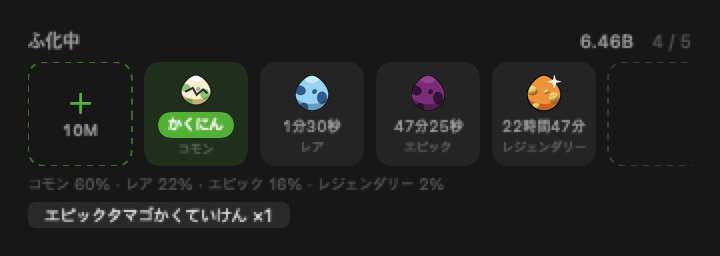
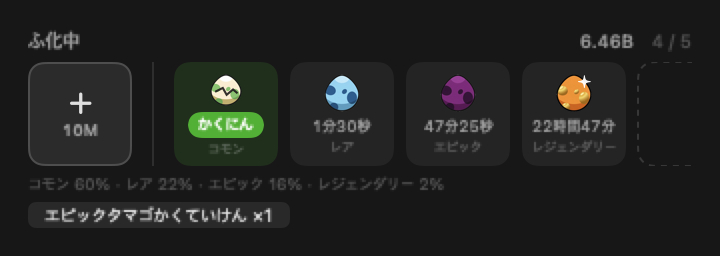
refactor: move the draw tile out of the scrolling egg strip
Pinning the draw tile to the head of the row kept it from shifting, but it
still lived inside the horizontal ScrollView. That cost a slot's worth of
width: the strip now overflows the 332pt content width at 5 slots instead
of 6, and scrolling right to see the last egg carries the button off screen
- so the position fix stopped working exactly when the row got long enough
to need scrolling.

Make the tile a sibling of the ScrollView instead. It cannot move and
cannot scroll away, and RowTile loses its .draw case so putting the button
back in the strip is a compile error rather than a test failure.

Three tile kinds shared two treatments: the dashed outline meant both
'empty slot' and 'draw button'. Give the dashes back to empty slots and
make the button a filled card, separated from the strip by a divider.
It deliberately drops the accent colour - green now appears once in the
row, on the Open badge for an egg that can actually be collected - and
distinguishes enabled from blocked by brightness instead.

When every slot is full the odds line is replaced by the reason the button
is grey, which nothing said before.

diff --git a/Sources/PokeDexBar/UI/EggSlotsView.swift b/Sources/PokeDexBar/UI/EggSlotsView.swift
@@ -69,25 +69,37 @@ struct EggSlotsView: View {
                 Text("\(store.state.eggs.count) / \(store.state.slots)")
                     .font(.system(size: 9)).monospacedDigit().foregroundStyle(.tertiary)
             }
-            ScrollView(.horizontal, showsIndicators: false) {
-                HStack(spacing: Self.tileSpacing) {
-                    ForEach(Self.tiles(eggs: store.state.eggs, slots: store.state.slots,
-                                       canDrawHere: provider != nil)) { tile in
-                        switch tile {
-                        case .draw: drawSlot
-                        case .egg(let egg): slot(egg)
-                        case .empty: emptySlot
+            // **뽑기 칸은 스크롤 바깥이다.** 줄 안에 두면 두 가지를 잃는다: 알이 찰 때마다
+            // 자리가 밀려 연타가 깨지고(사용자 지적), 칸 하나가 늘어난 만큼 줄이 더 일찍 넘쳐
+            // 오른쪽 알을 보려고 스크롤하면 **버튼이 화면 밖으로 나간다**(5슬롯부터 그렇다).
+            // 스크롤의 형제로 두면 둘 다 사라진다 — 자리가 고정되고 늘 보인다.
+            HStack(alignment: .top, spacing: 10) {
+                if provider != nil {
+                    drawSlot
+                    // 왼쪽은 **동작**이고 오른쪽은 **상태**다 — 같은 크기 타일이 붙어 서면 한 덩어리로
+                    // 읽히므로 경계를 한 줄 긋는다.
+                    Divider().frame(height: Self.tileSize)
+                }
+                ScrollView(.horizontal, showsIndicators: false) {
+                    HStack(spacing: Self.tileSpacing) {
+                        ForEach(Self.tiles(eggs: store.state.eggs, slots: store.state.slots)) { tile in
+                            switch tile {
+                            case .egg(let egg): slot(egg)
+                            case .empty: emptySlot
+                            }
                         }
                     }
                 }
+                // 슬롯이 적으면(대부분의 사용자) 스크롤·바운스가 생기지 않아 기존과 동일하게 보인다.
+                .scrollBounceBehavior(.basedOnSize, axes: .horizontal)
             }
-            // 슬롯이 적으면(대부분의 사용자) 스크롤·바운스가 생기지 않아 기존과 동일하게 보인다.
-            .scrollBounceBehavior(.basedOnSize, axes: .horizontal)
             // **툴팁이 아니라 인라인 한 줄이다.** 팝오버 안에서는 `.help` 가 안 뜬다(실사용 확인) —
             // 이 앱의 다른 `.help` 들도 마찬가지라, 안 보이는 곳에 설명을 두면 없는 것과 같다.
             //
             // 확률은 값 바로 아래에 — 10M 이 무엇을 사는 값인지 말해 준다.
-            Text(Self.oddsText(store.language))
+            // 자리가 없으면 확률이 아니라 **왜 못 뽑는지**가 이 자리에 와야 한다 — 회색 버튼만
+            // 두면 물어볼 곳이 없다. 자리가 있으면 확률이 값(10M)이 무엇을 사는지 말해 준다.
+            Text(Self.footnote(freeSlots: store.freeSlots, language: store.language))
                 .font(.system(size: 8)).foregroundStyle(.tertiary)
             if let drawError {
                 Text(drawError).font(.system(size: 9)).foregroundStyle(.orange)
@@ -189,50 +201,59 @@ struct EggSlotsView: View {
 
     /// **빈 칸이 곧 뽑기 버튼이다.** 옆에 버튼을 따로 두면 빈 칸이 장식이 되고 누를 곳이
     /// 둘로 갈린다(키우미집 빈 자리에서 쓴 것과 같은 판단).
-    /// 한 줄에 놓이는 칸들. **뽑기 칸이 맨 앞에 못 박혀 있다** — 처음엔 "첫 빈 칸"이 뽑기
-    /// 칸이었는데, 알이 하나 찰 때마다 칸이 오른쪽으로 밀려 **연타가 깨졌다**(사용자 지적:
-    /// 예전엔 버튼을 따다닥 눌러 네 개를 연달아 뽑았는데 이제는 뽑을 때마다 마우스를 옮겨야
-    /// 한다). 자리가 고정돼야 같은 곳을 계속 누를 수 있다.
+    /// 스크롤되는 줄에 놓이는 칸들 — 알과 빈 칸뿐이다. **뽑기 칸은 여기 없다**: 줄 안에 두면
+    /// 알이 찰 때마다 자리가 밀려 연타가 깨지고, 줄이 한 칸 더 길어져 스크롤하면 버튼이 화면
+    /// 밖으로 나간다. 케이스를 아예 안 두는 이유는 그 회귀를 테스트가 아니라 **컴파일**이
+    /// 막게 하려는 것이다.
     ///
-    /// 자리가 꽉 차도 **빠지지 않고 회색으로 남는다** — 빠지면 왜 못 뽑는지 말해 줄 자리까지
-    /// 같이 사라지고, 다음에 부화하는 순간 줄이 통째로 밀린다.
-    ///
-    /// 순서를 뷰 본문에 두면 "알이 늘어도 뽑기 자리가 그대로인가"를 물어볼 수가 없어서 밖으로 뺐다.
+    /// 순서를 뷰 본문에 두면 "알이 늘어도 줄 길이가 그대로인가"를 물어볼 수가 없어서 밖으로 뺐다.
     enum RowTile: Identifiable {
-        case draw
         case egg(Egg)
         case empty(Int)
 
         var id: String {
             switch self {
-            case .draw: "draw"
             case .egg(let egg): "egg-\(egg.id)"
             case .empty(let index): "empty-\(index)"
             }
         }
     }
 
-    static func tiles(eggs: [Egg], slots: Int, canDrawHere: Bool) -> [RowTile] {
-        (canDrawHere ? [.draw] : []) + eggs.map { RowTile.egg($0) }
-            + (0..<max(0, slots - eggs.count)).map { RowTile.empty($0) }
+    static func tiles(eggs: [Egg], slots: Int) -> [RowTile] {
+        eggs.map { RowTile.egg($0) } + (0..<max(0, slots - eggs.count)).map { RowTile.empty($0) }
+    }
+
+    /// 줄 아래 한 줄. 자리가 없으면 확률이 아니라 **왜 못 뽑는지**가 온다 — 회색 버튼만 두면
+    /// 물어볼 곳이 없다. 지갑 부족은 헤더에 지갑과 값이 나란히 서서 이미 읽히므로 문장을 안 만든다.
+    nonisolated static func footnote(freeSlots: Int, language: AppLanguage) -> String {
+        freeSlots == 0 ? L(language).eggSlotsFull : oddsText(language)
     }
 
     private var drawSlot: some View {
         let canDraw = store.canDraw && !drawing && provider != nil
+        // **점선은 빈 칸 전용이다** — 버튼까지 점선이면 셋(버튼·빈칸·알)이 같은 무게로 읽힌다.
+        // 그리고 **악센트(초록)를 안 쓴다**: 이 줄에서 가장 중요한 신호는 "지금 열 수 있는 알"의
+        // 초록 배지인데, 바로 옆에 초록 버튼이 서면 시선이 갈린다. 버튼다움은 색이 아니라
+        // 채운 카드 + `plus` + 값이 맡는다.
         return Button { draw() } label: {
+            //
+            // 색을 뺀 만큼 **눌리는 상태와 막힌 상태는 밝기로** 갈린다 — 처음엔 둘을 같은 회색으로
+            // 뒀더니 지갑이 모자란 줄과 아닌 줄이 구별되지 않았다(스크린샷으로 발각).
             RoundedRectangle(cornerRadius: 8)
-                .stroke(Color.accentColor.opacity(canDraw ? 0.55 : 0.25),
-                        style: StrokeStyle(lineWidth: 1, dash: [3]))
+                .fill(Color.secondary.opacity(canDraw ? 0.16 : 0.06))
+                .strokeBorder(Color.secondary.opacity(canDraw ? 0.30 : 0.12), lineWidth: 1)
                 .frame(width: Self.tileSize, height: Self.tileSize)
                 .overlay {
                     VStack(spacing: 2) {
                         Image(systemName: drawing ? "hourglass" : "plus")
-                            .font(.system(size: 13, weight: .medium))
-                            .foregroundStyle(canDraw ? Color.accentColor : .secondary)
+                            .font(.system(size: 13, weight: .semibold))
+                            .foregroundStyle(canDraw ? AnyShapeStyle(.primary)
+                                                     : AnyShapeStyle(.tertiary))
                         // 값은 **회색일 때도 보인다** — 얼마가 모자란지 알아야 기다릴 수 있다.
                         Text(TokenFormatter.compact(EggBalance.drawPrice))
                             .font(.system(size: 8, weight: .semibold)).monospacedDigit()
-                            .foregroundStyle(.secondary)
+                            .foregroundStyle(canDraw ? AnyShapeStyle(.secondary)
+                                                     : AnyShapeStyle(.tertiary))
                     }
                 }
         }

diff --git a/Tests/PokeDexBarTests/ShopViewTests.swift b/Tests/PokeDexBarTests/ShopViewTests.swift
@@ -100,41 +100,44 @@ final class DrawLocationTests: XCTestCase {
         XCTAssertFalse(try code("EggSlotsView.swift").contains("buySlot("))
     }
 
-    /// **뽑기 칸은 알이 늘어도 제자리다.** 처음엔 "첫 빈 칸"이 뽑기 칸이라 알이 하나 찰 때마다
-    /// 칸이 오른쪽으로 밀렸고, 그래서 연타가 깨졌다(사용자 지적). 자리가 0번으로 고정돼야
-    /// 같은 곳을 계속 누를 수 있다.
-    func testTheDrawTileStaysPutAsEggsFillIn() {
+    /// **스크롤되는 줄에는 알과 빈 칸만 있다.** 뽑기 칸을 줄 안에 두면 알이 찰 때마다 자리가
+    /// 밀려 연타가 깨지고(사용자 지적), 줄이 한 칸 더 길어져 스크롤하면 버튼이 화면 밖으로
+    /// 나간다. `RowTile` 에 뽑기 케이스가 아예 없어서 이 회귀는 컴파일이 막지만, 줄 길이가
+    /// 슬롯 수를 따라가는 것은 여기서 잠근다.
+    func testTheStripIsExactlyTheSlotsNoMatterHowManyEggs() {
         let url = FileManager.default.temporaryDirectory
             .appendingPathComponent("row-\(UUID().uuidString).json")
         let now = Date(timeIntervalSince1970: 1_700_000_000)
         let store = PlayerStore(fileURL: url, rng: SeededRNG(seed: 3), now: { now })
         for filled in 0...4 {
             store.seedForTesting(wallet: EggBalance.drawPrice, slots: 4, eggs: filled, at: now)
-            let tiles = EggSlotsView.tiles(eggs: store.state.eggs, slots: 4, canDrawHere: true)
-            XCTAssertEqual(tiles.first?.id, "draw", "알 \(filled)개일 때 뽑기 칸이 맨 앞이 아니다")
-            XCTAssertEqual(tiles.count, 5, "알 \(filled)개일 때 줄 길이가 달라졌다")
+            let tiles = EggSlotsView.tiles(eggs: store.state.eggs, slots: 4)
+            XCTAssertEqual(tiles.count, 4, "알 \(filled)개일 때 줄 길이가 슬롯 수와 다르다")
+            XCTAssertEqual(tiles.prefix(filled).map(\.id),
+                           store.state.eggs.map { "egg-\($0.id)" },
+                           "알이 앞에서부터 순서대로 놓이지 않는다")
         }
     }
 
-    /// 자리가 꽉 차도 **빠지지 않는다** — 빠지면 왜 못 뽑는지 말해 줄 자리까지 사라지고,
-    /// 하나 부화하는 순간 줄이 통째로 밀린다.
-    func testTheDrawTileSurvivesAFullRow() {
-        let url = FileManager.default.temporaryDirectory
-            .appendingPathComponent("row-\(UUID().uuidString).json")
-        let now = Date(timeIntervalSince1970: 1_700_000_000)
-        let store = PlayerStore(fileURL: url, rng: SeededRNG(seed: 3), now: { now })
-        store.seedForTesting(wallet: EggBalance.drawPrice, slots: 3, eggs: 3, at: now)
-        let tiles = EggSlotsView.tiles(eggs: store.state.eggs, slots: 3, canDrawHere: true)
-        XCTAssertEqual(tiles.first?.id, "draw")
-        XCTAssertFalse(store.canDraw, "이 상황에서 뽑을 수 있으면 회색 칸을 검증하는 의미가 없다")
+    /// **버튼이 스크롤 밖에 있어야 하는 이유.** 최대 슬롯이면 줄 자체가 이미 내용 폭을 넘는다 —
+    /// 버튼을 줄에 넣으면 오른쪽 알을 보려고 스크롤한 순간 버튼이 딸려 나간다. 이 부등식이
+    /// 뒤집히면(타일이 작아지는 등) 바깥에 둘 이유가 사라지므로 그때 다시 판단하라는 표식이다.
+    func testTheStripOverflowsAtTheLargestSlotCount() {
+        XCTAssertGreaterThan(EggSlotsView.rowWidth(forSlotCount: EggBalance.maxSlots),
+                             PopoverMetrics.contentWidth,
+                             "줄이 안 넘치면 스크롤이 없다 — 버튼 위치의 근거가 바뀐다")
     }
 
-    /// 대조군: 후보 인덱스가 없으면 뽑기 칸 자체가 없다. 없으면 "언제나 맨 앞에 하나 넣는다"도
-    /// 위를 통과한다.
-    func testWithoutAProviderThereIsNoDrawTile() {
-        let tiles = EggSlotsView.tiles(eggs: [], slots: 2, canDrawHere: false)
-        XCTAssertEqual(tiles.count, 2)
-        XCTAssertNil(tiles.first { $0.id == "draw" })
+    /// 자리가 없으면 줄 아래가 확률이 아니라 **막힌 이유**를 말한다. 대조군(자리 있음)이 없으면
+    /// "늘 이유만 낸다"도 통과한다.
+    func testTheFootnoteSaysWhyWhenTheRowIsFull() {
+        for language in [AppLanguage.ko, .en, .ja] {
+            let blocked = EggSlotsView.footnote(freeSlots: 0, language: language)
+            XCTAssertEqual(blocked, L(language).eggSlotsFull, "\(language) 에서 이유가 안 나온다")
+            XCTAssertEqual(EggSlotsView.footnote(freeSlots: 1, language: language),
+                           EggSlotsView.oddsText(language), "자리가 있는데 확률이 사라졌다")
+            XCTAssertNotEqual(blocked, EggSlotsView.oddsText(language))
+        }
     }
 
     /// 뽑을 수 있는지는 **스토어 하나**가 정한다 — 화면이 조건을 따로 적으면 갈린다.

diff --git a/Sources/PokeDexBar/Core/Localization.swift b/Sources/PokeDexBar/Core/Localization.swift
@@ -465,6 +465,10 @@ struct L {
 
     // MARK: 홈 — 부화 슬롯
     var eggSlotsHeader: String { t("부화 중", "Hatching", "ふ化中") }
+    /// 자리가 없어 못 뽑을 때 **확률 줄 대신** 서는 문장. 회색 버튼만 두면 왜 안 눌리는지
+    /// 말해 주는 곳이 없다 — 지갑 부족은 헤더에 지갑과 값이 나란히 서서 이미 읽힌다.
+    var eggSlotsFull: String { t("부화 칸이 꽉 찼어요", "Every hatching slot is full",
+                                 "ふ化スロットがいっぱいです") }
     /// 배지에 마우스를 올렸을 때 — 누구 덕인지 짚어 준다.
     func eggWarmedBy(_ name: String) -> String {
         t("\(name)의 도움으로 부화가 빨라졌어요",
